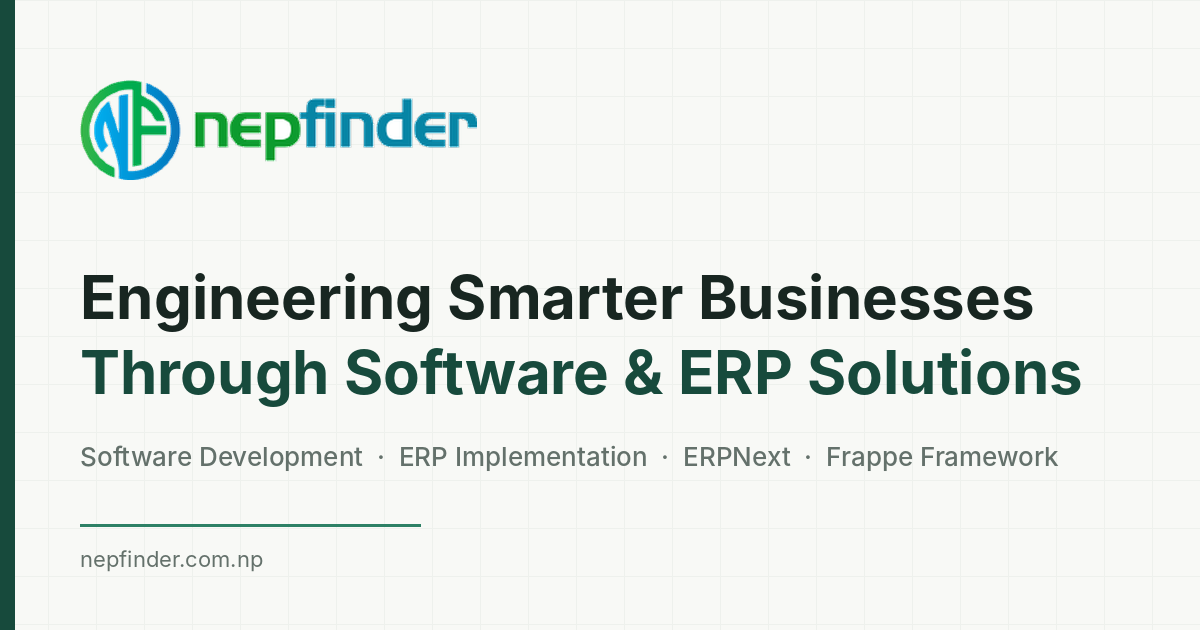
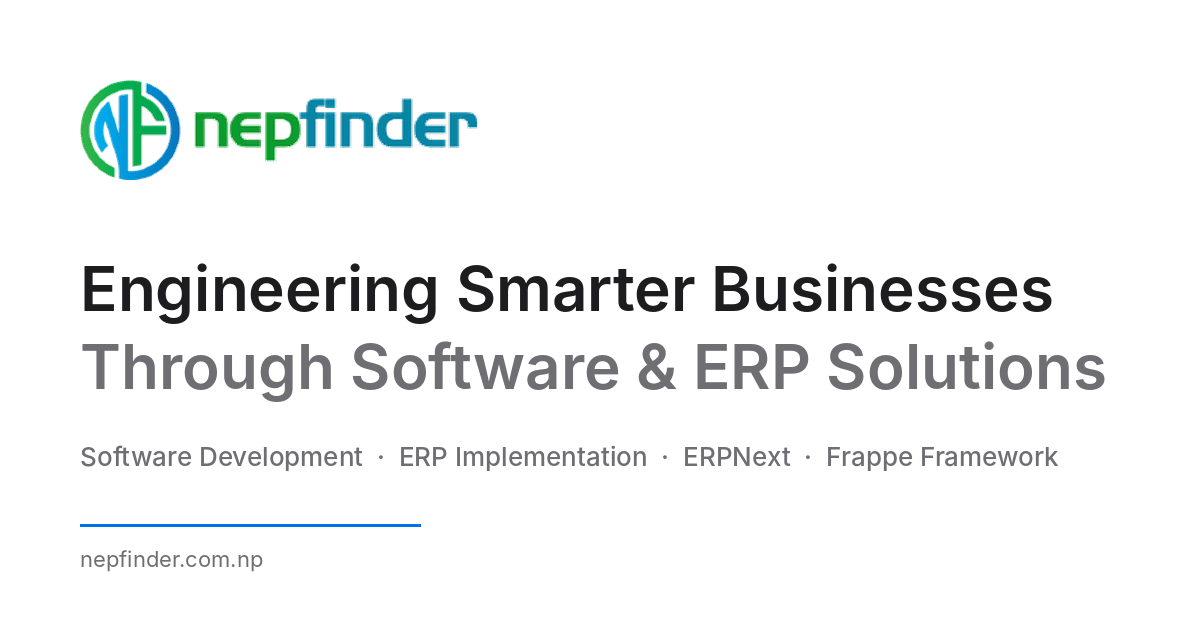
Adopt Apple system palette and type, add Enterprise ERP Support plan
- Apple colours: white and #F5F5F7 bands, #1D1D1F text, #0071E3 actions,
  black feature bands; SF Pro system type stack with Inter fallback
- New Enterprise ERP Support product: fixed monthly price, technical and
  functional ERP experts, office hours 10:00 to 18:00, with home section,
  product page, and contact form option

Claude-Session: https://claude.ai/code/session_01Sw4F96bhCUwf2PyhrpPekX

Changed region(s): [[0.0617, 0.4222, 0.925, 0.6635], [0.0, 0.0, 0.0308, 1.0], [0.0617, 0.8143, 0.3392, 0.8444]]

diff --git a/src/styles/globals.css b/src/styles/globals.css
@@ -6,14 +6,16 @@
    `.theme-dark` sections so the same utilities work on deep evergreen.
 --------------------------------------------------------------------------- */
 @theme {
-  --color-brand: #174a3c; /* Forest Green */
-  --color-accent: #2d8065; /* Emerald */
-  --color-evergreen: #102b25; /* Deep Evergreen */
-  --color-stone: #eef1ed; /* Soft Stone */
-  --color-warm: #f8f9f6; /* Warm White */
-  --color-charcoal: #182621;
-  --color-slate: #5c6a64;
-  --color-border: #dde5de;
+  /* Apple system palette */
+  --color-brand: #0071e3; /* Apple blue (links, buttons) */
+  --color-brand-hover: #0077ed;
+  --color-accent: #0066cc;
+  --color-evergreen: #000000; /* black bands */
+  --color-stone: #f5f5f7; /* light grey bands and tiles */
+  --color-warm: #ffffff;
+  --color-charcoal: #1d1d1f;
+  --color-slate: #6e6e73;
+  --color-border: #d2d2d7;
 
   --color-bg: var(--color-warm);
   --color-bg-2: var(--color-stone);
@@ -24,8 +26,9 @@
   --color-muted: var(--color-slate);
   --color-on-brand: #ffffff;
 
-  --font-sans: -apple-system, BlinkMacSystemFont, 'SF Pro Text', 'Inter', 'Helvetica Neue', ui-sans-serif, system-ui, sans-serif;
-  --font-display: -apple-system, BlinkMacSystemFont, 'SF Pro Display', 'Inter', 'Helvetica Neue', ui-sans-serif, system-ui, sans-serif;
+  /* Apple's own type: SF Pro on Apple devices via the system stack; Inter as the closest open fallback elsewhere. */
+  --font-sans: 'SF Pro Text', 'SF Pro Icons', -apple-system, BlinkMacSystemFont, 'Inter', 'Helvetica Neue', Helvetica, Arial, sans-serif;
+  --font-display: 'SF Pro Display', 'SF Pro Icons', -apple-system, BlinkMacSystemFont, 'Inter', 'Helvetica Neue', Helvetica, Arial, sans-serif;
   --radius-tile: 1.75rem;
 
   --shadow-card: 0 1px 2px rgba(24, 38, 33, 0.04), 0 8px 24px -16px rgba(24, 38, 33, 0.12);
@@ -67,13 +70,13 @@
 /* Dark (deep evergreen) sections re-map the semantic tokens. */
 .theme-dark {
   --color-bg: var(--color-evergreen);
-  --color-bg-2: #163a32;
-  --color-surface: rgba(255, 255, 255, 0.04);
-  --color-surface-2: rgba(255, 255, 255, 0.08);
-  --color-line: rgba(255, 255, 255, 0.12);
-  --color-text: #ffffff;
-  --color-muted: #c3d1cb;
-  --color-accent: #5fb08f;
+  --color-bg-2: #1d1d1f;
+  --color-surface: rgba(255, 255, 255, 0.06);
+  --color-surface-2: rgba(255, 255, 255, 0.1);
+  --color-line: rgba(255, 255, 255, 0.16);
+  --color-text: #f5f5f7;
+  --color-muted: #a1a1a6;
+  --color-accent: #2997ff;
   color: var(--color-text);
 }
 
@@ -90,7 +93,7 @@ body {
 }
 
 ::selection {
-  background: rgba(45, 128, 101, 0.2);
+  background: rgba(0, 113, 227, 0.2);
 }
 
 :focus-visible {
@@ -141,15 +144,15 @@ body {
     background: var(--color-surface);
   }
   .text-highlight {
-    color: var(--color-brand);
+    color: var(--color-slate);
   }
   .theme-dark .text-highlight {
-    color: var(--color-accent);
+    color: var(--color-muted);
   }
   .grid-fade {
     background-image:
-      linear-gradient(rgba(23, 74, 60, 0.07) 1px, transparent 1px),
-      linear-gradient(90deg, rgba(23, 74, 60, 0.07) 1px, transparent 1px);
+      linear-gradient(rgba(29, 29, 31, 0.06) 1px, transparent 1px),
+      linear-gradient(90deg, rgba(29, 29, 31, 0.06) 1px, transparent 1px);
     background-size: 48px 48px;
     -webkit-mask-image: radial-gradient(ellipse at center, #000 30%, transparent 75%);
     mask-image: radial-gradient(ellipse at center, #000 30%, transparent 75%);
@@ -166,16 +169,13 @@ body {
     @apply rounded-lg bg-white px-2 py-1.5;
   }
   .btn-primary {
-    @apply inline-flex items-center justify-center gap-2 rounded-full bg-brand px-6 py-3 text-[15px] font-medium text-white transition-colors duration-200 hover:bg-accent focus-visible:outline-accent;
-  }
-  .theme-dark .btn-primary {
-    @apply inline-flex items-center justify-center gap-2 rounded-full bg-brand px-6 py-3 text-[15px] font-medium text-white transition-colors duration-200 hover:bg-accent focus-visible:outline-accent;
+    @apply inline-flex items-center justify-center gap-2 rounded-full bg-brand px-6 py-3 text-[15px] font-medium text-white transition-colors duration-200 hover:bg-brand-hover focus-visible:outline-accent;
   }
   .btn-secondary {
-    @apply inline-flex items-center justify-center gap-2 rounded-full border border-brand/40 bg-transparent px-6 py-3 text-[15px] font-medium text-brand transition-colors duration-200 hover:bg-brand hover:text-white focus-visible:outline-accent;
+    @apply inline-flex items-center justify-center gap-2 rounded-full border border-brand bg-transparent px-6 py-3 text-[15px] font-medium text-brand transition-colors duration-200 hover:bg-brand hover:text-white focus-visible:outline-accent;
   }
   .theme-dark .btn-secondary {
-    @apply border-white/40 bg-transparent text-white hover:bg-white hover:text-brand;
+    @apply border-accent text-accent hover:bg-accent hover:text-white;
   }
   .btn-ghost {
     @apply inline-flex items-center justify-center gap-2 rounded-lg px-3 py-3 text-sm font-semibold text-muted transition-colors duration-200 hover:text-brand;

diff --git a/src/data/products.ts b/src/data/products.ts
@@ -16,8 +16,32 @@ export interface Product {
   technologies?: string[]
 }
 
-/** Products and applications documented in the existing Nepfinder website and repository. */
+/** Products and services offered by Nepfinder (nInsurance, nCafe and Restaurant Billing come from the existing website). */
 export const products: Product[] = [
+  {
+    slug: 'enterprise-support',
+    name: 'Enterprise ERP Support',
+    headline: 'Enterprise ERP Support — a dedicated team, one fixed monthly price',
+    summary:
+      'Monthly maintenance and support for your ERP from a team of technical and functional ERP experts, available during office hours (10:00 to 18:00), for a fixed monthly fee.',
+    description:
+      'Enterprise ERP Support gives your business a standing team of ERP experts without hiring in-house. For one fixed price per month you get both technical and functional specialists who keep your ERPNext or other ERP system running, resolve issues, make configuration changes, and help your users during office hours, 10:00 to 18:00 on working days. The plan is sized to your organisation and billed monthly, so costs stay predictable.',
+    category: 'Managed Support Plan',
+    features: [
+      { title: 'Fixed monthly price', text: 'One predictable fee per month, sized to your users and modules. No hourly surprises.' },
+      { title: 'Technical experts', text: 'Developers who handle customisations, scripts, integrations, upgrades, backups, and server health.' },
+      { title: 'Functional experts', text: 'Consultants who understand accounting, stock, sales, purchasing, HR, and manufacturing processes and configure the system accordingly.' },
+      { title: 'Office hours 10:00 to 18:00', text: 'Your team can reach us during office hours on working days through email, phone, or a shared ticket channel.' },
+      { title: 'Issue resolution', text: 'Bug fixes, data corrections, permission changes, and print format or report adjustments.' },
+      { title: 'Changes and small enhancements', text: 'New fields, workflows, reports, and dashboards as your processes evolve.' },
+      { title: 'User help desk', text: 'Answers and guidance for your staff while they work in the system.' },
+      { title: 'Upgrades and monitoring', text: 'Planned version upgrades, patching, backup checks, and performance monitoring.' },
+      { title: 'Monthly review', text: 'A short monthly summary of tickets, changes made, and recommendations.' },
+    ],
+    images: [],
+    links: [{ label: 'Request a quote', href: '/contact' }],
+    technologies: ['ERPNext', 'Frappe Framework', 'ERP Integrations', 'Reports & Dashboards'],
+  },
   {
     slug: 'ninsurance',
     name: 'nInsurance',

diff --git a/src/components/home/SupportPlan.tsx b/src/components/home/SupportPlan.tsx
@@ -1,0 +1,55 @@
+import { Link } from 'react-router'
+import { Clock, Code2, SlidersHorizontal, Wallet } from 'lucide-react'
+import { getProduct } from '@/data/products'
+import { Reveal } from '@/components/ui/Reveal'
+import { Button } from '@/components/ui/Button'
+
+const pillars = [
+  { icon: Wallet, title: 'One fixed monthly price', text: 'Predictable cost sized to your users and modules.' },
+  { icon: Code2, title: 'Technical experts', text: 'Customisations, integrations, upgrades, and server health.' },
+  { icon: SlidersHorizontal, title: 'Functional experts', text: 'Process, configuration, and user guidance across modules.' },
+  { icon: Clock, title: 'Office hours 10:00 to 18:00', text: 'Reach the team on working days by email, phone, or tickets.' },
+]
+
+export function SupportPlan() {
+  const plan = getProduct('enterprise-support')!
+  return (
+    <section id="support" className="theme-dark section bg-evergreen">
+      <div className="container-x">
+        <Reveal className="mx-auto max-w-3xl text-center">
+          <h2 className="h-display text-4xl leading-[1.08] sm:text-5xl lg:text-[3.5rem]">Enterprise ERP Support</h2>
+          <p className="mt-6 text-lg leading-relaxed text-muted sm:text-xl">
+            A dedicated team of ERP experts for your business, every month, for one fixed price.
+          </p>
+          <div className="mt-9 flex flex-col justify-center gap-3 sm:flex-row">
+            <Button to="/contact">Request a quote</Button>
+            <Button to={`/products/${plan.slug}`} variant="secondary">
+              See what is included
+            </Button>
+          </div>
+        </Reveal>
+        <div className="mt-16 grid gap-4 sm:grid-cols-2 lg:grid-cols-4">
+          {pillars.map((p, i) => (
+            <Reveal key={p.title} delay={i * 0.05} className="h-full">
+              <div className="card h-full">
+                <span className="icon-tile">
+                  <p.icon className="size-5" aria-hidden />
+                </span>
+                <h3 className="mt-5 font-display text-xl font-semibold text-text">{p.title}</h3>
+                <p className="mt-2 text-[15px] leading-relaxed text-muted">{p.text}</p>
+              </div>
+            </Reveal>
+          ))}
+        </div>
+        <Reveal className="mt-10 text-center text-sm text-muted">
+          <p>
+            Covers ERPNext and other ERP systems we implement.{' '}
+            <Link to={`/products/${plan.slug}`} className="text-accent hover:underline">
+              Full plan details
+            </Link>
+          </p>
+        </Reveal>
+      </div>
+    </section>
+  )
+}

diff --git a/src/components/home/ArchitectureDiagram.tsx b/src/components/home/ArchitectureDiagram.tsx
@@ -7,28 +7,28 @@ const nodes = [
     label: 'ERPNext',
     sub: 'Accounting · Stock · Sales · HR',
     text: 'Open-source ERP modules configured and customised around your processes.',
-    color: '#2D8065',
+    color: '#0071E3',
   },
   {
     id: 'frappe',
     label: 'Frappe Framework',
     sub: 'Python · JavaScript · MariaDB',
     text: 'The metadata-driven framework underneath ERPNext: DocTypes, permissions, workflows, and REST APIs.',
-    color: '#174A3C',
+    color: '#2997FF',
   },
   {
     id: 'apps',
     label: 'Custom Apps',
     sub: 'DocTypes · Workflows · Portals',
     text: 'Business-specific modules, reports, dashboards, and portals built as Frappe applications.',
-    color: '#5FB08F',
+    color: '#64D2FF',
   },
   {
     id: 'integrations',
     label: 'External Integrations',
     sub: 'Payments · E-commerce · APIs',
     text: 'Webhooks and REST integrations with payment gateways, storefronts, mobile apps, and third-party systems.',
-    color: '#8FB8A8',
+    color: '#A1A1A6',
   },
 ]
 
@@ -43,8 +43,8 @@ export function ArchitectureDiagram() {
         <svg viewBox="0 0 800 240" className="w-full" role="img" aria-label="Architecture: ERPNext built on the Frappe Framework, extended by custom apps and connected to external integrations">
           <defs>
             <linearGradient id="flow" x1="0" x2="1">
-              <stop offset="0" stopColor="#2D8065" />
-              <stop offset="1" stopColor="#5FB08F" />
+              <stop offset="0" stopColor="#0071E3" />
+              <stop offset="1" stopColor="#64D2FF" />
             </linearGradient>
           </defs>
           {/* connection lines */}

diff --git a/src/components/three/HeroScene.tsx b/src/components/three/HeroScene.tsx
@@ -7,13 +7,13 @@ import { useIsMobile } from '@/hooks/useMediaFlags'
 export const heroModules = ['Finance', 'Accounting', 'Inventory', 'Sales', 'Procurement', 'CRM', 'Human Resources', 'Operations']
 
 const C = {
-  forest: '#174A3C',
-  emerald: '#2D8065',
-  stone: '#EEF1ED',
-  charcoal: '#182621',
+  forest: '#1D1D1F',
+  emerald: '#0071E3',
+  stone: '#F5F5F7',
+  charcoal: '#1D1D1F',
   white: '#FFFFFF',
-  line: '#AFC0B6',
-  bar: '#D6DFD9',
+  line: '#C7C7CC',
+  bar: '#E3E3E8',
 }
 
 /** Module tiles laid out on a staggered isometric grid around a central platform tile. */
@@ -58,7 +58,7 @@ function Tile({ position, label, index, mobile }: { position: THREE.Vector3; lab
         </mesh>
         {!mobile && (
           <Html center position={[0, 0.02, 0.62]} style={{ pointerEvents: 'none' }} zIndexRange={[5, 0]}>
-            <span className="whitespace-nowrap rounded-md border border-[#DDE5DE] bg-white/95 px-2 py-0.5 text-[10.5px] font-medium tracking-wide text-[#182621] shadow-sm">
+            <span className="whitespace-nowrap rounded-md bg-white/95 px-2 py-0.5 text-[10.5px] font-medium text-[#1D1D1F] shadow-sm">
               {label}
             </span>
           </Html>

diff --git a/src/components/three/AboutScene.tsx b/src/components/three/AboutScene.tsx
@@ -4,10 +4,10 @@ import { useFrame } from '@react-three/fiber'
 import { Float, RoundedBox } from '@react-three/drei'
 
 const layers = [
-  { y: -0.9, color: '#182621', w: 3.2, label: 'infrastructure' },
-  { y: -0.3, color: '#174A3C', w: 2.9, label: 'data' },
-  { y: 0.3, color: '#2D8065', w: 2.6, label: 'business logic' },
-  { y: 0.9, color: '#EEF1ED', w: 2.3, label: 'experience' },
+  { y: -0.9, color: '#1D1D1F', w: 3.2, label: 'infrastructure' },
+  { y: -0.3, color: '#424245', w: 2.9, label: 'data' },
+  { y: 0.3, color: '#0071E3', w: 2.6, label: 'business logic' },
+  { y: 0.9, color: '#F5F5F7', w: 2.3, label: 'experience' },
 ]
 
 /** Stacked software layers: infrastructure → data → business logic → experience. */
@@ -32,7 +32,7 @@ export default function AboutScene() {
         {/* connector */}
         <mesh position={[0, 0, 0]}>
           <cylinderGeometry args={[0.03, 0.03, 2.4, 12]} />
-          <meshBasicMaterial color="#C9D6CE" />
+          <meshBasicMaterial color="#C7C7CC" />
         </mesh>
       </group>
     </>

diff --git a/src/components/three/NetworkScene.tsx b/src/components/three/NetworkScene.tsx
@@ -59,13 +59,13 @@ export default function NetworkScene({ count = 70, maxDist = 2.1 }: { count?: nu
         <bufferGeometry>
           <bufferAttribute attach="attributes-position" args={[pos, 3]} />
         </bufferGeometry>
-        <pointsMaterial size={0.06} color="#9fd3bb" transparent opacity={0.9} sizeAttenuation depthWrite={false} />
+        <pointsMaterial size={0.06} color="#2997ff" transparent opacity={0.9} sizeAttenuation depthWrite={false} />
       </points>
       <lineSegments ref={lines}>
         <bufferGeometry>
           <bufferAttribute attach="attributes-position" args={[linePos, 3]} />
         </bufferGeometry>
-        <lineBasicMaterial color="#5fb08f" transparent opacity={0.25} />
+        <lineBasicMaterial color="#0071e3" transparent opacity={0.35} />
       </lineSegments>
     </>
   )

diff --git a/src/components/home/ProductsShowcase.tsx b/src/components/home/ProductsShowcase.tsx
@@ -7,8 +7,8 @@ import { Button } from '@/components/ui/Button'
 import { Card, Pill } from '@/components/ui/Card'
 
 export function ProductsShowcase() {
-  const ninsurance = products[0]
-  const others = products.slice(1)
+  const ninsurance = products.find((p) => p.slug === 'ninsurance')!
+  const others = products.filter((p) => p.slug !== 'ninsurance')
   return (
     <section id="products" className="section relative">
       <div className="container-x">
@@ -51,7 +51,7 @@ export function ProductsShowcase() {
           </div>
         </Reveal>
 
-        <div className="mt-6 grid gap-5 md:grid-cols-2">
+        <div className="mt-6 grid gap-5 md:grid-cols-3">
           {others.map((p, i) => (
             <Reveal key={p.slug} delay={0.08 * i} className="h-full">
               <Card className="h-full">

diff --git a/src/pages/Home.tsx b/src/pages/Home.tsx
@@ -5,6 +5,7 @@ import { AboutPreview } from '@/components/home/AboutPreview'
 import { ServicesGrid } from '@/components/home/ServicesGrid'
 import { ErpnextFrappe } from '@/components/home/ErpnextFrappe'
 import { ProductsShowcase } from '@/components/home/ProductsShowcase'
+import { SupportPlan } from '@/components/home/SupportPlan'
 import { Technologies } from '@/components/home/Technologies'
 import { ProcessTimeline } from '@/components/home/ProcessTimeline'
 import { Projects } from '@/components/home/Projects'
@@ -37,6 +38,7 @@ export default function Home() {
       <ServicesGrid />
       <ErpnextFrappe />
       <ProductsShowcase />
+      <SupportPlan />
       <Technologies />
       <ProcessTimeline />
       <Projects />

diff --git a/src/components/three/StaticFallback.tsx b/src/components/three/StaticFallback.tsx
@@ -23,7 +23,7 @@ export function NetworkFallback({ className, labels = [] }: { className?: string
         ))}
         {pts.map(([x, y], i) => (
           <g key={i}>
-            <circle cx={x} cy={y} r={i === 0 ? 4 : 2.2} fill={i === 0 ? '#174A3C' : 'var(--color-surface)'} stroke="#2D8065" strokeWidth={0.5} />
+            <circle cx={x} cy={y} r={i === 0 ? 4 : 2.2} fill={i === 0 ? '#0071E3' : 'var(--color-surface)'} stroke="#0071E3" strokeWidth={0.5} />
             {labels[i - 1] && i > 0 && (
               <text x={x} y={y + 6} fontSize={3} textAnchor="middle" fill="var(--color-muted)" fontFamily="Inter, sans-serif">
                 {labels[i - 1]}

diff --git a/src/data/routes.ts b/src/data/routes.ts
@@ -11,7 +11,7 @@ export const staticRoutes: { path: string; priority: number }[] = [
   { path: '/solutions', priority: 0.7 },
   { path: '/technologies', priority: 0.6 },
   { path: '/products', priority: 0.8 },
-  ...products.map((p) => ({ path: `/products/${p.slug}`, priority: 0.7 })),
+  ...products.map((p) => ({ path: `/products/${p.slug}`, priority: p.slug === 'enterprise-support' ? 0.9 : 0.7 })),
   { path: '/projects', priority: 0.7 },
   ...projects.map((p) => ({ path: `/projects/${p.slug}`, priority: 0.6 })),
   { path: '/contact', priority: 0.8 },

diff --git a/index.html b/index.html
@@ -3,7 +3,7 @@
   <head>
     <meta charset="UTF-8" />
     <meta name="viewport" content="width=device-width, initial-scale=1.0" />
-    <meta name="theme-color" content="#F8F9F6" />
+    <meta name="theme-color" content="#FFFFFF" />
     <link rel="icon" href="/favicon.ico" sizes="48x48" />
     <link rel="icon" type="image/png" sizes="32x32" href="/favicon-32.png" />
     <link rel="icon" type="image/png" sizes="192x192" href="/icon-192.png" />
